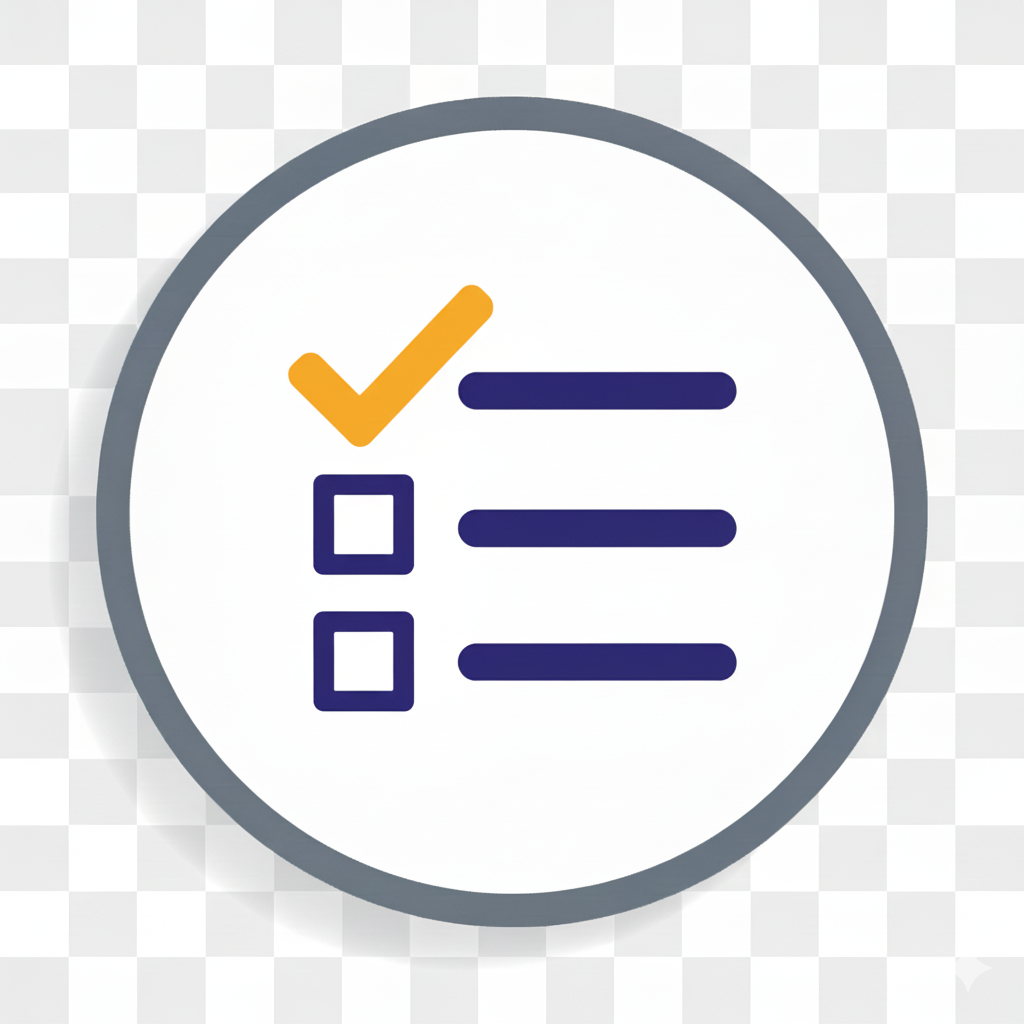
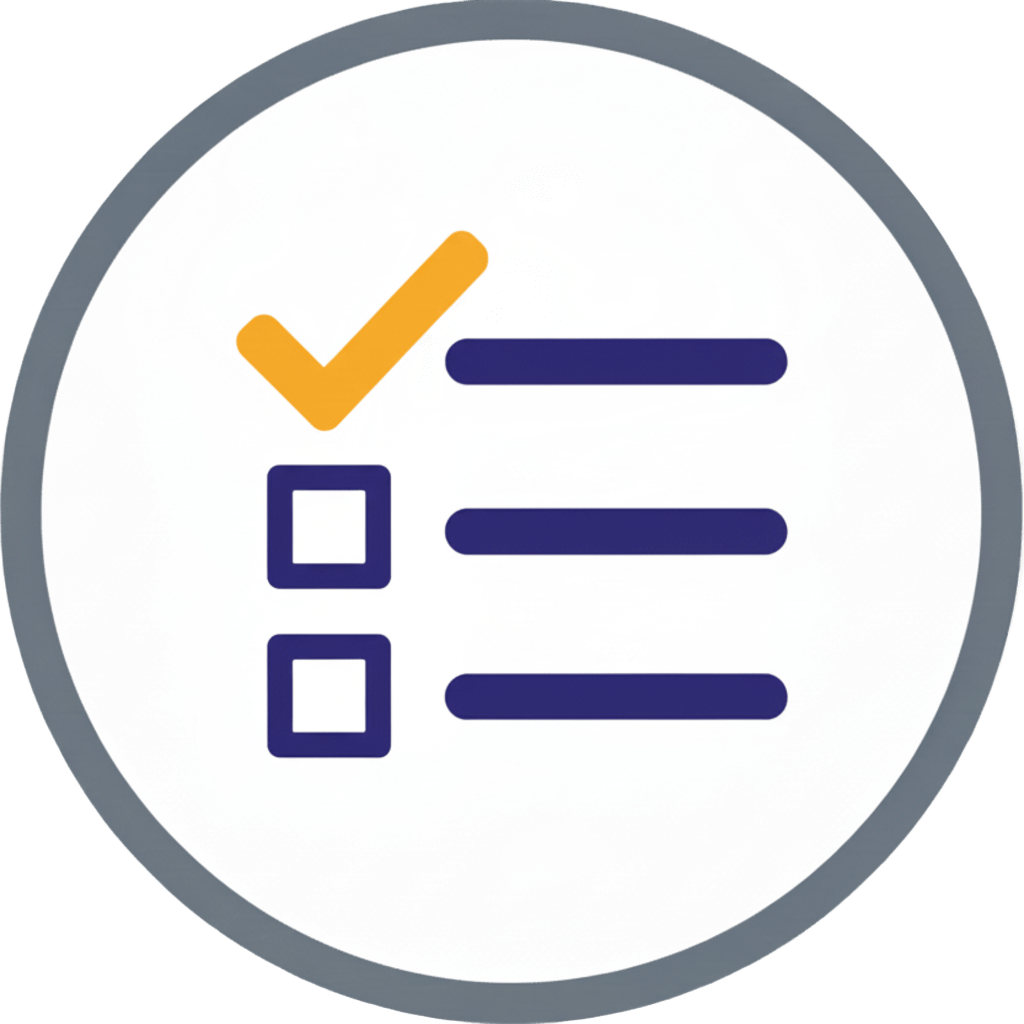
Código feito

diff --git a/taskflow_app/lib/services/task_service.dart b/taskflow_app/lib/services/task_service.dart
@@ -1,14 +1,56 @@
 import 'dart:convert';
 import 'package:flutter/foundation.dart';
+import 'package:shared_preferences/shared_preferences.dart';
 import '../models/task.dart';
 import '../data/sample_data.dart';
 
 class TaskService extends ChangeNotifier {
+  static const String _tasksKey = 'taskflow_tasks';
   final List<Task> _tasks = [];
+  bool _isInitialized = false;
   
   TaskService() {
-    // Adiciona dados de exemplo na inicialização
-    _tasks.addAll(SampleData.getSampleTasks());
+    initializeTasks();
+  }
+
+  Future<void> initializeTasks() async {
+    if (_isInitialized) return;
+    
+    final prefs = await SharedPreferences.getInstance();
+    final tasksJson = prefs.getString(_tasksKey);
+    
+    if (tasksJson != null) {
+      // Carrega tarefas salvas
+      try {
+        final List<dynamic> jsonList = jsonDecode(tasksJson);
+        _tasks.clear();
+        _tasks.addAll(jsonList.map((json) => Task.fromJson(json)));
+        print('📋 Carregadas ${_tasks.length} tarefas salvas');
+      } catch (e) {
+        print('❌ Erro ao carregar tarefas: $e');
+        // Em caso de erro, usa dados de exemplo
+        _tasks.addAll(SampleData.getSampleTasks());
+      }
+    } else {
+      // Primeira vez - usa dados de exemplo
+      _tasks.addAll(SampleData.getSampleTasks());
+      print('📋 Primeira execução - carregando ${_tasks.length} tarefas de exemplo');
+      await _saveTasks();
+    }
+    
+    _isInitialized = true;
+    notifyListeners();
+  }
+
+  Future<void> _saveTasks() async {
+    try {
+      final prefs = await SharedPreferences.getInstance();
+      final tasksJson = jsonEncode(_tasks.map((task) => task.toJson()).toList());
+      await prefs.setString(_tasksKey, tasksJson);
+      print('💾 Tarefas salvas: ${_tasks.length} itens');
+    } catch (e) {
+      print('❌ Erro ao salvar tarefas: $e');
+    }
   }
 
   List<Task> get tasks => List.unmodifiable(_tasks);
@@ -28,27 +70,31 @@ class TaskService extends ChangeNotifier {
     return completedTasksCount / totalTasks;
   }
 
-  void addTask(Task task) {
+  Future<void> addTask(Task task) async {
     _tasks.add(task);
+    await _saveTasks();
     notifyListeners();
   }
 
-  void updateTask(Task updatedTask) {
+  Future<void> updateTask(Task updatedTask) async {
     final index = _tasks.indexWhere((task) => task.id == updatedTask.id);
     if (index != -1) {
       _tasks[index] = updatedTask;
+      await _saveTasks();
       notifyListeners();
     }
   }
 
-  void deleteTask(String taskId) {
+  Future<void> deleteTask(String taskId) async {
     _tasks.removeWhere((task) => task.id == taskId);
+    await _saveTasks();
     notifyListeners();
   }
 
-  void toggleTaskCompletion(String taskId) {
+  Future<void> toggleTaskCompletion(String taskId) async {
     final task = _tasks.firstWhere((task) => task.id == taskId);
     task.isCompleted = !task.isCompleted;
+    await _saveTasks();
     notifyListeners();
   }
 
@@ -65,20 +111,32 @@ class TaskService extends ChangeNotifier {
     ).toList();
   }
 
-  void clearCompletedTasks() {
+  Future<void> clearCompletedTasks() async {
     _tasks.removeWhere((task) => task.isCompleted);
+    await _saveTasks();
     notifyListeners();
   }
 
-  // Métodos para persistência local (simulados)
+  // Método para limpar todas as tarefas (útil para desenvolvimento)
+  Future<void> clearAllTasks() async {
+    _tasks.clear();
+    await _saveTasks();
+    notifyListeners();
+  }
+
+  // Getter para verificar se o serviço foi inicializado
+  bool get isInitialized => _isInitialized;
+
+  // Métodos para persistência local
   String toJson() {
     return jsonEncode(_tasks.map((task) => task.toJson()).toList());
   }
 
-  void fromJson(String jsonString) {
+  Future<void> fromJson(String jsonString) async {
     final List<dynamic> jsonList = jsonDecode(jsonString);
     _tasks.clear();
     _tasks.addAll(jsonList.map((json) => Task.fromJson(json)));
+    await _saveTasks();
     notifyListeners();
   }
 }

diff --git a/taskflow_app/lib/widgets/taskflow_icon.dart b/taskflow_app/lib/widgets/taskflow_icon.dart
@@ -40,30 +40,30 @@ class TaskFlowIconPainter extends CustomPainter {
   void paint(Canvas canvas, Size size) {
     final paint = Paint();
     final center = Offset(size.width / 2, size.height / 2);
-    final radius = size.width * 0.45;
+    final radius = size.width * 0.48; // Aumentado de 0.45 para 0.48
 
     // Fundo branco com borda
     paint.color = Colors.white;
     paint.style = PaintingStyle.fill;
     canvas.drawCircle(center, radius, paint);
 
-    // Borda cinza
+    // Borda cinza mais fina
     paint.color = Colors.grey.shade400;
     paint.style = PaintingStyle.stroke;
-    paint.strokeWidth = size.width * 0.05;
+    paint.strokeWidth = size.width * 0.03; // Reduzido de 0.05 para 0.03
     canvas.drawCircle(center, radius, paint);
 
     // Configurações para os elementos
-    final itemHeight = size.height * 0.12;
-    final itemWidth = size.width * 0.6;
-    final startY = size.height * 0.25;
-    final itemSpacing = size.height * 0.15;
+    final itemHeight = size.height * 0.14; // Aumentado de 0.12 para 0.14
+    final itemWidth = size.width * 0.65; // Aumentado de 0.6 para 0.65
+    final startY = size.height * 0.22; // Reduzido de 0.25 para 0.22
+    final itemSpacing = size.height * 0.16; // Aumentado de 0.15 para 0.16
 
     // Primeiro item (completo - com check laranja)
     _drawTaskItem(
       canvas,
       size,
-      Offset(size.width * 0.2, startY),
+      Offset(size.width * 0.175, startY), // Mais centralizado: 0.175 em vez de 0.2
       itemWidth,
       itemHeight,
       isCompleted: true,
@@ -73,7 +73,7 @@ class TaskFlowIconPainter extends CustomPainter {
     _drawTaskItem(
       canvas,
       size,
-      Offset(size.width * 0.2, startY + itemSpacing),
+      Offset(size.width * 0.175, startY + itemSpacing), // Mais centralizado
       itemWidth,
       itemHeight,
       isCompleted: false,

diff --git a/taskflow_app/lib/screens/home_screen.dart b/taskflow_app/lib/screens/home_screen.dart
@@ -315,7 +315,7 @@ class _HomeScreenState extends State<HomeScreen> with SingleTickerProviderStateM
     );
 
     if (result != null && mounted) {
-      context.read<TaskService>().addTask(result);
+      await context.read<TaskService>().addTask(result);
     }
   }
 
@@ -327,12 +327,12 @@ class _HomeScreenState extends State<HomeScreen> with SingleTickerProviderStateM
     );
 
     if (result != null && mounted) {
-      context.read<TaskService>().updateTask(result);
+      await context.read<TaskService>().updateTask(result);
     }
   }
 
-  void _toggleTask(String taskId) {
-    context.read<TaskService>().toggleTaskCompletion(taskId);
+  void _toggleTask(String taskId) async {
+    await context.read<TaskService>().toggleTaskCompletion(taskId);
   }
 
   void _deleteTask(Task task) {
@@ -347,9 +347,11 @@ class _HomeScreenState extends State<HomeScreen> with SingleTickerProviderStateM
             child: const Text('Cancelar'),
           ),
           TextButton(
-            onPressed: () {
-              context.read<TaskService>().deleteTask(task.id);
-              Navigator.of(context).pop();
+            onPressed: () async {
+              await context.read<TaskService>().deleteTask(task.id);
+              if (context.mounted) {
+                Navigator.of(context).pop();
+              }
             },
             child: const Text(
               'Excluir',

diff --git a/taskflow_app/lib/screens/splash_screen.dart b/taskflow_app/lib/screens/splash_screen.dart
@@ -99,21 +99,21 @@ class _SplashScreenState extends State<SplashScreen> with SingleTickerProviderSt
                   children: [
                     // Logo/Ícone do app
                     Container(
-                      width: 120,
-                      height: 120,
+                      width: 240,
+                      height: 240,
                       decoration: BoxDecoration(
                         color: Colors.white,
-                        borderRadius: BorderRadius.circular(30),
+                        borderRadius: BorderRadius.circular(60),
                         boxShadow: [
                           BoxShadow(
                             color: Colors.black.withValues(alpha: 0.2),
-                            blurRadius: 20,
-                            offset: const Offset(0, 10),
+                            blurRadius: 30,
+                            offset: const Offset(0, 15),
                           ),
                         ],
                       ),
                       child: const TaskFlowIcon(
-                        size: 80,
+                        size: 220,
                       ),
                     ),
                     const SizedBox(height: 24),

diff --git a/taskflow_app/lib/main.dart b/taskflow_app/lib/main.dart
@@ -16,19 +16,32 @@ void main() async {
   final preferencesService = PreferencesService();
   await preferencesService.init();
   
-  runApp(TaskFlowApp(preferencesService: preferencesService));
+  // Inicializa o serviço de tarefas
+  final taskService = TaskService();
+  // Aguarda a inicialização das tarefas
+  await taskService.initializeTasks();
+  
+  runApp(TaskFlowApp(
+    preferencesService: preferencesService,
+    taskService: taskService,
+  ));
 }
 
 class TaskFlowApp extends StatelessWidget {
   final PreferencesService preferencesService;
+  final TaskService taskService;
   
-  const TaskFlowApp({super.key, required this.preferencesService});
+  const TaskFlowApp({
+    super.key, 
+    required this.preferencesService,
+    required this.taskService,
+  });
 
   @override
   Widget build(BuildContext context) {
     return MultiProvider(
       providers: [
-        ChangeNotifierProvider(create: (context) => TaskService()),
+        ChangeNotifierProvider.value(value: taskService),
         ChangeNotifierProvider.value(value: preferencesService),
       ],
       child: MaterialApp(

diff --git a/taskflow_app/test/widget_test.dart b/taskflow_app/test/widget_test.dart
@@ -8,15 +8,22 @@
 import 'package:flutter_test/flutter_test.dart';
 import 'package:taskflow_app/main.dart';
 import 'package:taskflow_app/services/preferences_service.dart';
+import 'package:taskflow_app/services/task_service.dart';
 
 void main() {
   testWidgets('TaskFlow app smoke test', (WidgetTester tester) async {
     // Inicializa o serviço de preferências
     final preferencesService = PreferencesService();
     await preferencesService.init();
+    
+    final taskService = TaskService();
+    await taskService.initializeTasks();
 
     // Build our app and trigger a frame.
-    await tester.pumpWidget(TaskFlowApp(preferencesService: preferencesService));
+    await tester.pumpWidget(TaskFlowApp(
+      preferencesService: preferencesService,
+      taskService: taskService,
+    ));
 
     // Verifica se o app carrega a tela de splash
     expect(find.text('TaskFlow'), findsOneWidget);
